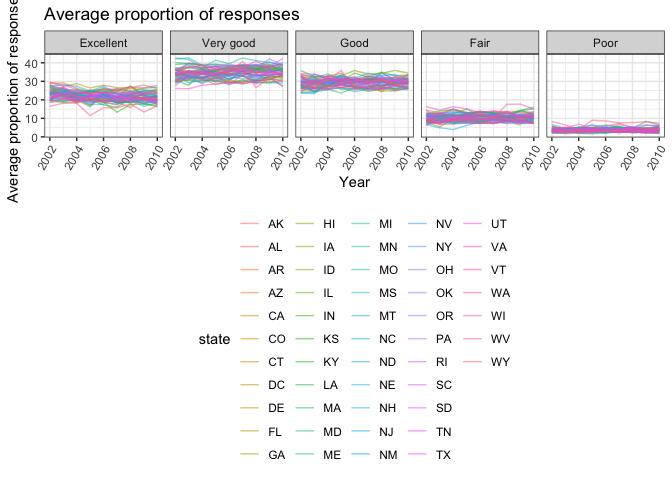
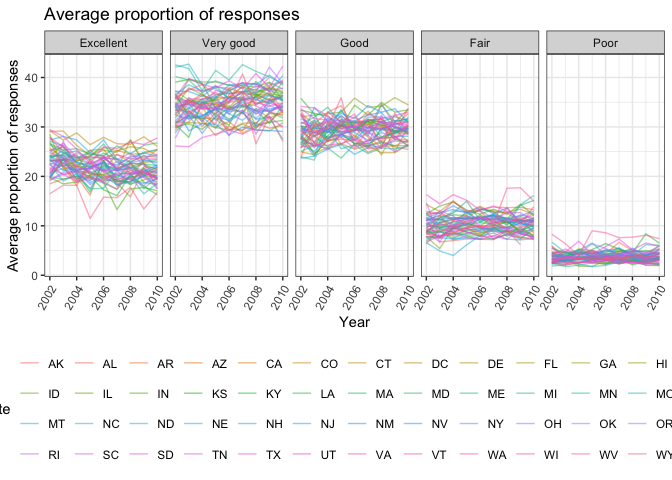
fixed legend in five panel plot

diff --git a/p8105_hw3_amv2187.md b/p8105_hw3_amv2187.md
@@ -114,7 +114,8 @@ brfss_cleaned %>%
     y = 'Average proportion of responses',
     x = 'Year'
   ) + 
-  theme(axis.text.x = element_text(angle = 60, hjust = 1)) # spread out legend??
+  theme(axis.text.x = element_text(angle = 60, hjust = 1)) +
+  guides(colour = guide_legend(nrow = 4, byrow = T)) 
 ```
 
 ![](p8105_hw3_amv2187_files/figure-markdown_github/unnamed-chunk-2-2.png)
